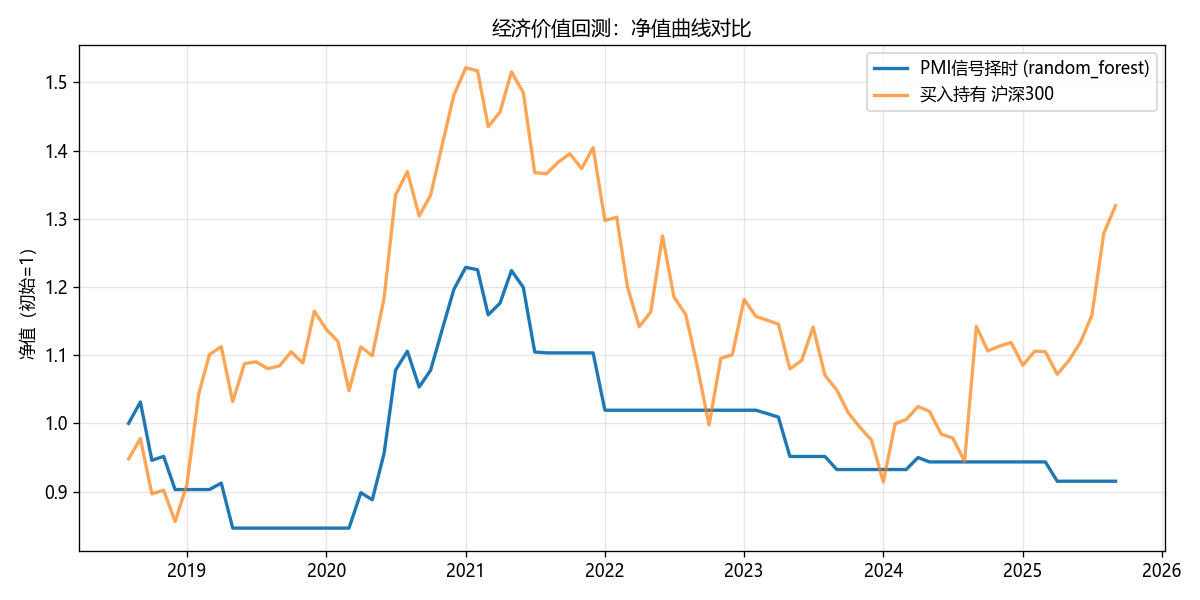
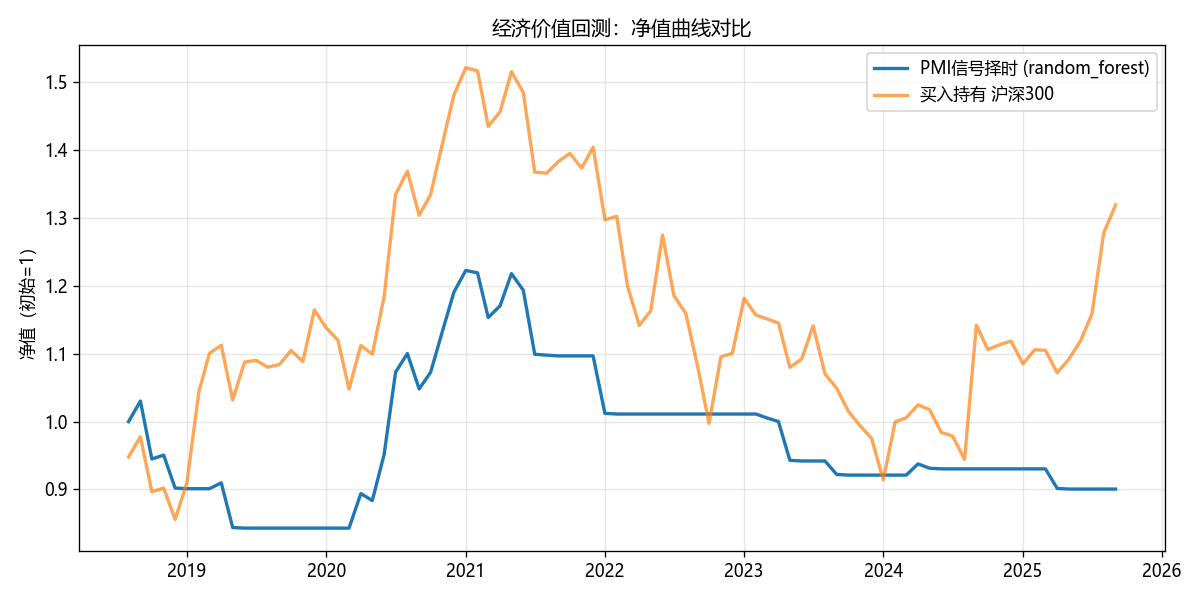
feat: 交易成本敏感回测 + CI + backtest 测试
- backtest: run_backtest 计入单边交易成本(默认10bp),train 输出
  0/5/10/20/30bp 成本敏感性扫描 (cost_sensitivity.csv)
- CI: .github/workflows/ci.yml 在 Python 3.10/3.12 跑 ruff + pytest
- tests: 新增 test_backtest.py(零成本回退/成本单调侵蚀/绩效字段)
- 清理 ruff 揪出的两个未用导入 (ingest, config)
- README: CI 徽章 + 成本敏感性说明,局限节更新为"已计成本"

diff --git a/tests/test_backtest.py b/tests/test_backtest.py
@@ -1,0 +1,52 @@
+"""test_backtest.py — 交易成本与择时逻辑的正确性。
+
+重点验证新加的交易成本：零成本回退到无摩擦结果，正成本单调侵蚀收益，
+换手次数与仓位切换一致。
+"""
+import numpy as np
+import pandas as pd
+
+from pmi_nowcast import backtest
+
+
+def _make_data():
+    idx = pd.date_range("2020-01-01", periods=6, freq="MS")
+    # 信号：预测下月扩张(1)/收缩(0)
+    signal = pd.Series([1, 1, 0, 1, 0, 1], index=idx)
+    # 市场每月固定 +2%，便于手算
+    mkt = pd.Series([0.02] * 6, index=idx, name="hs300_ret")
+    return signal, mkt
+
+
+def test_zero_cost_matches_frictionless():
+    """零成本时，策略收益 = 前移仓位 × 市场收益（无摩擦）。"""
+    signal, mkt = _make_data()
+    bt = backtest.run_backtest(signal, mkt, cost_bps=0.0)
+    expected = signal.shift(1).fillna(0) * mkt
+    np.testing.assert_allclose(bt["strategy_ret"].to_numpy(), expected.to_numpy())
+
+
+def test_cost_erodes_return():
+    """正交易成本应使策略累计收益严格低于零成本情形。"""
+    signal, mkt = _make_data()
+    nav_free = backtest.run_backtest(signal, mkt, cost_bps=0.0)["strategy_nav"].iloc[-1]
+    nav_cost = backtest.run_backtest(signal, mkt, cost_bps=30.0)["strategy_nav"].iloc[-1]
+    assert nav_cost < nav_free
+
+
+def test_cost_monotonic():
+    """成本越高，终值净值越低（单调）。"""
+    signal, mkt = _make_data()
+    navs = [
+        backtest.run_backtest(signal, mkt, cost_bps=c)["strategy_nav"].iloc[-1]
+        for c in (0.0, 10.0, 20.0, 40.0)
+    ]
+    assert all(navs[i] > navs[i + 1] for i in range(len(navs) - 1))
+
+
+def test_performance_stats_keys():
+    """绩效统计返回预期字段且数值有限。"""
+    signal, mkt = _make_data()
+    bt = backtest.run_backtest(signal, mkt, cost_bps=10.0)
+    stats = backtest.performance_stats(bt["strategy_ret"])
+    assert {"annual_return", "annual_vol", "sharpe", "max_drawdown"} <= set(stats)

diff --git a/src/pmi_nowcast/train.py b/src/pmi_nowcast/train.py
@@ -115,12 +115,27 @@ def main():
     # 经济价值回测
     try:
         mkt = backtest.load_hs300_monthly_returns()
-        bt = backtest.run_backtest(best_preds["y_pred"], mkt)
+        bt = backtest.run_backtest(best_preds["y_pred"], mkt, cost_bps=10.0)
         strat = backtest.performance_stats(bt["strategy_ret"])
         bh = backtest.performance_stats(bt["buyhold_ret"])
-        print(f"\n=== 经济价值回测（{best} 信号 vs 买入持有）===")
+        print(f"\n=== 经济价值回测（{best} 信号 vs 买入持有，含 10bp 单边成本）===")
         stat_df = pd.DataFrame({"策略": strat, "买入持有": bh}).T
         print(stat_df.round(3).to_string())
+
+        # 交易成本敏感性：策略优势随成本侵蚀（正面回应"未计成本"局限）
+        print("\n=== 交易成本敏感性（策略年化收益）===")
+        sweep = []
+        for c in (0.0, 5.0, 10.0, 20.0, 30.0):
+            s = backtest.run_backtest(best_preds["y_pred"], mkt, cost_bps=c)
+            st = backtest.performance_stats(s["strategy_ret"])
+            n_trades = int(s["position"].diff().abs().fillna(s["position"].abs()).sum())
+            sweep.append(
+                {"cost_bps": c, "annual_return": st["annual_return"], "sharpe": st["sharpe"], "换手次数": n_trades}
+            )
+        sweep_df = pd.DataFrame(sweep).set_index("cost_bps")
+        print(sweep_df.round(4).to_string())
+        sweep_df.round(6).to_csv(config.OUTPUT_DIR / "cost_sensitivity.csv", encoding="utf-8-sig")
+
         bt.to_csv(config.OUTPUT_DIR / "backtest.csv", encoding="utf-8-sig")
         _plot_results(summary, bt, best)
     except Exception as e:  # noqa: BLE001 - 行情接口不稳不应中断主流程

diff --git a/src/pmi_nowcast/backtest.py b/src/pmi_nowcast/backtest.py
@@ -12,7 +12,6 @@ from __future__ import annotations
 import numpy as np
 import pandas as pd
 
-from . import ingest
 
 
 def load_hs300_monthly_returns() -> pd.Series:
@@ -26,17 +25,26 @@ def load_hs300_monthly_returns() -> pd.Series:
     return monthly_close.pct_change().rename("hs300_ret")
 
 
-def run_backtest(signal: pd.Series, market_ret: pd.Series) -> pd.DataFrame:
+def run_backtest(
+    signal: pd.Series, market_ret: pd.Series, cost_bps: float = 10.0
+) -> pd.DataFrame:
     """按信号择时，返回逐月策略/基准收益与净值。
 
     signal[t] = 对 t+1 月的预测（1=扩张持股，0=收缩持币）。
     该信号赚取的是 t+1 月的市场收益，故对齐时把信号前移一期。
+
+    cost_bps: 单边交易成本（基点）。每次仓位切换（0→1 买入 / 1→0 卖出）
+    在切换当月扣一次；默认 10bp，贴近 A 股场内基金的佣金+冲击成本量级。
     """
     df = pd.DataFrame({"signal": signal}).join(market_ret, how="inner")
     # 信号预测下月 → 用信号获取下月收益
-    df["strategy_ret"] = df["signal"].shift(1).fillna(0) * df["hs300_ret"]
-    df["buyhold_ret"] = df["hs300_ret"]
+    df["position"] = df["signal"].shift(1).fillna(0)
     df = df.dropna(subset=["hs300_ret"])
+    # 仓位变化（每次买或卖各计一次单边成本）
+    turnover = df["position"].diff().abs().fillna(df["position"].abs())
+    cost = turnover * (cost_bps / 1e4)
+    df["strategy_ret"] = df["position"] * df["hs300_ret"] - cost
+    df["buyhold_ret"] = df["hs300_ret"]
     df["strategy_nav"] = (1 + df["strategy_ret"]).cumprod()
     df["buyhold_nav"] = (1 + df["buyhold_ret"]).cumprod()
     return df

diff --git a/src/pmi_nowcast/features.py b/src/pmi_nowcast/features.py
@@ -14,7 +14,6 @@ from __future__ import annotations
 
 import pandas as pd
 
-from . import config
 
 
 def add_derived_signals(panel: pd.DataFrame) -> pd.DataFrame:
